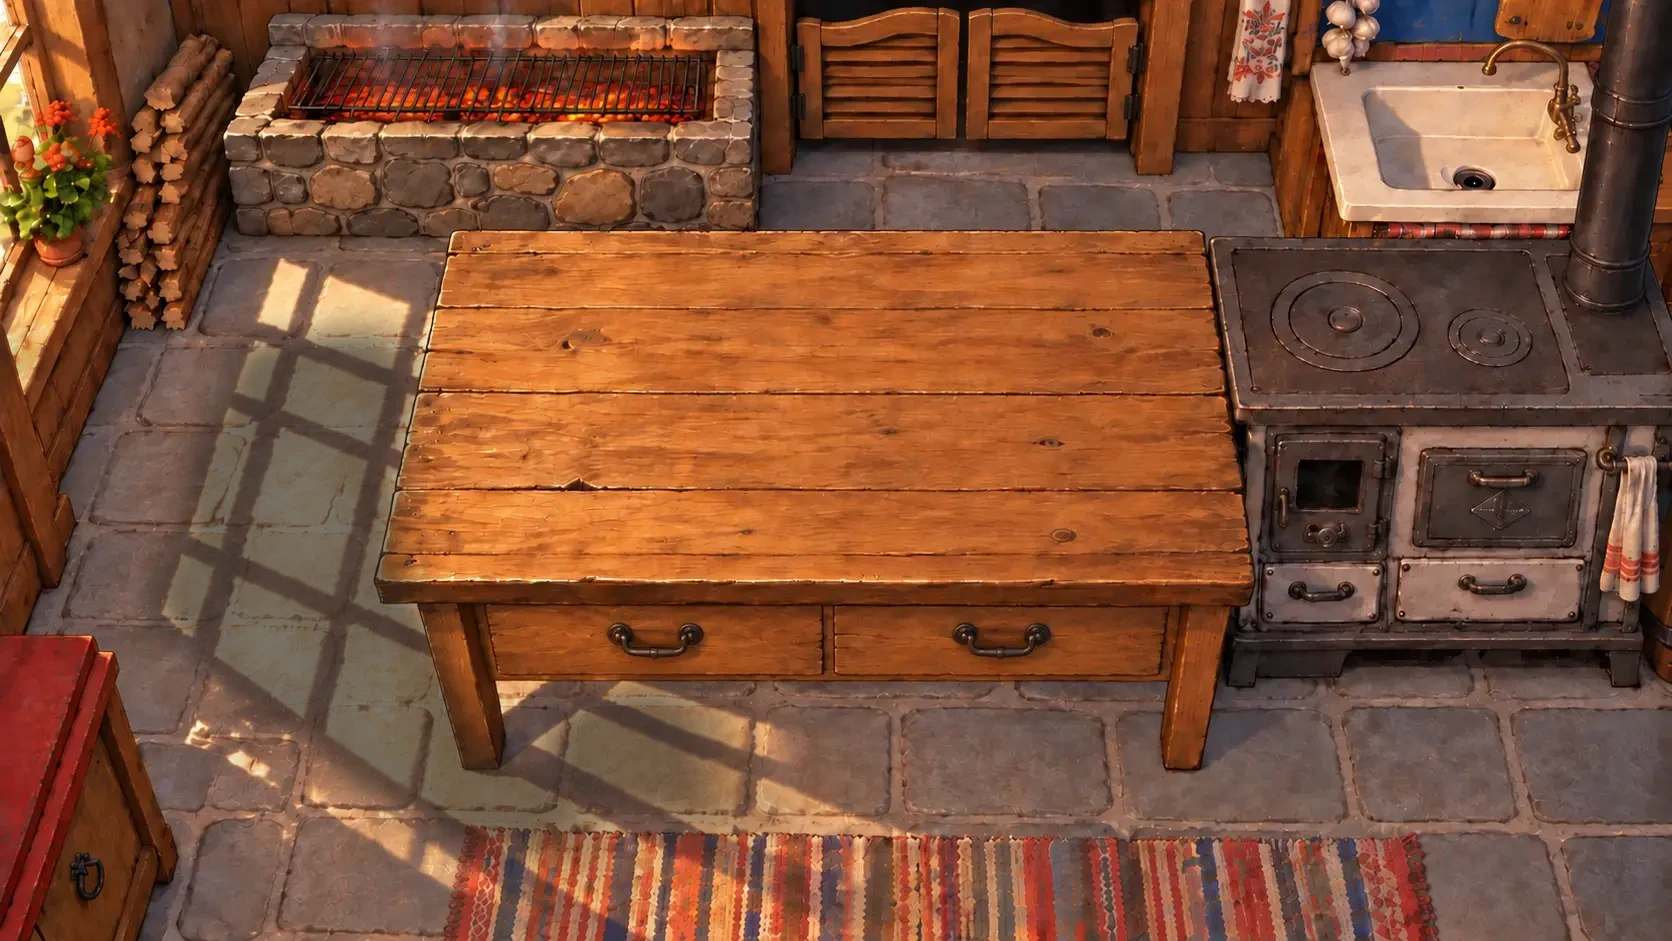
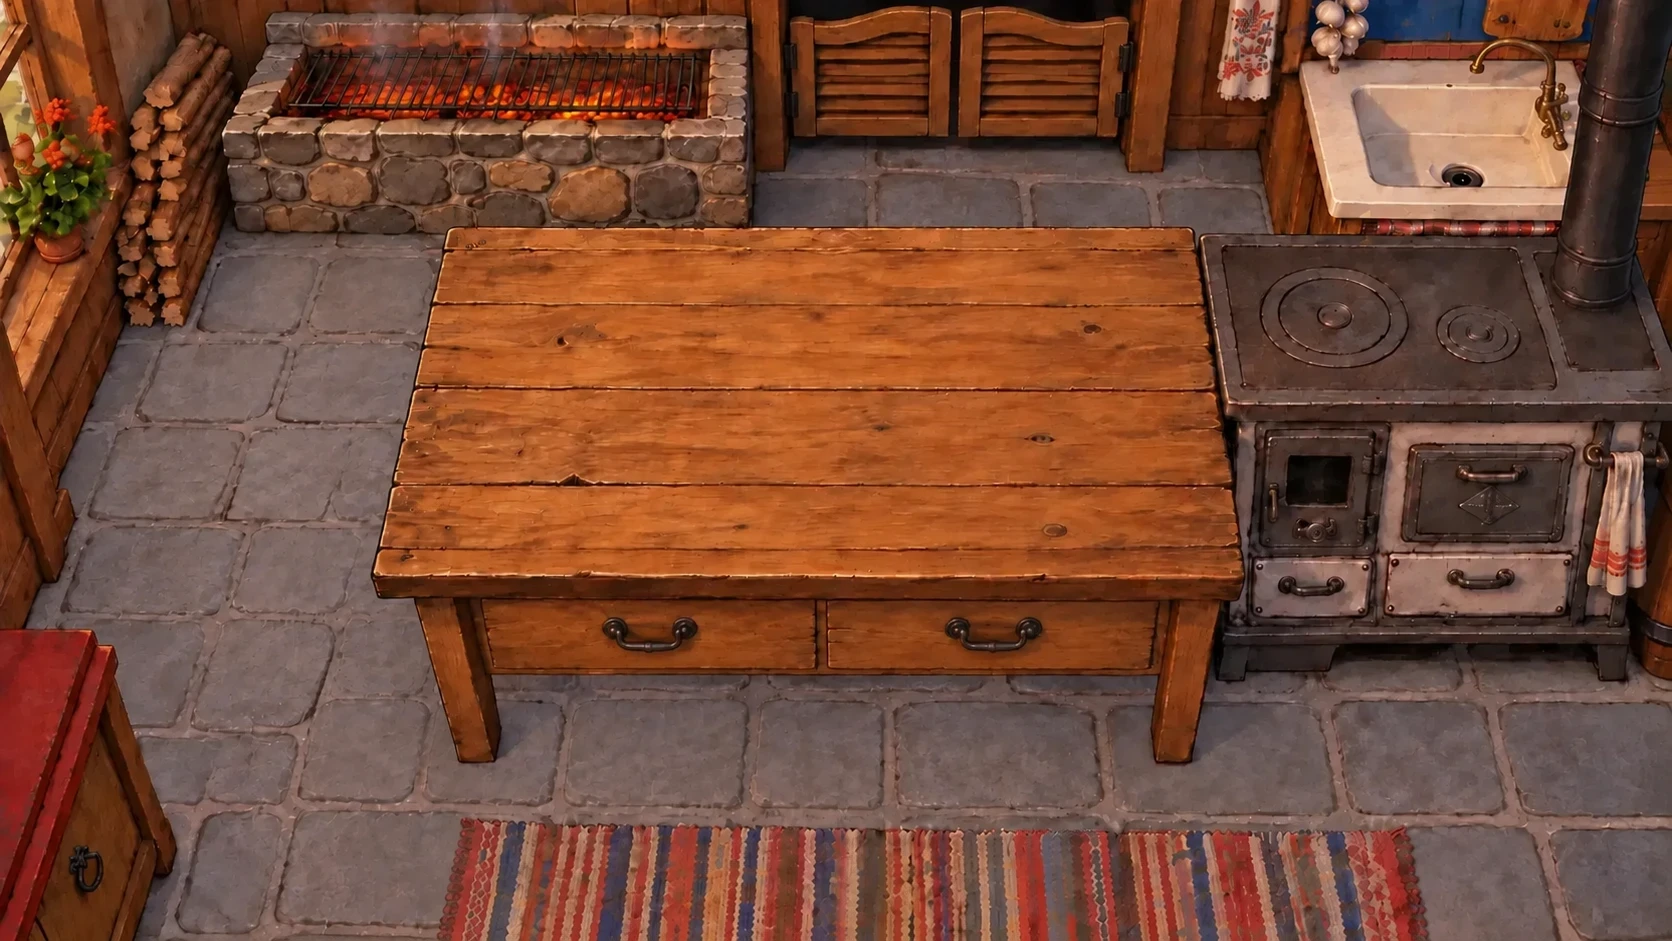
Sunce na podu: prava slika bez sunca (ChatGPT) kroz masku dok pada noć
Claude-Session: https://claude.ai/code/session_01GMM3Rnq6i1o8tZEuJzXhvg

diff --git a/js/day-light.js b/js/day-light.js
@@ -71,7 +71,7 @@ function fireSig(){return Math.round(grillLevel()*20)+'/'+Math.round(stoveLevel(
 var cv=null,cx=null,tintC=null,sunI=new Image();sunI.src='assets/effects/sun_patches.png?v=1';
 /* the picture of the kitchen WITHOUT the sun on the floor (assets/effects/kuhinja_bez_sunca.webp, the same picture, drawn without the light of the window) lies over the real one inside a mask of the window light
    (assets/effects/sun_zone_mask.png) and it melts in while the sun goes away (evening, night, early morning). If that picture is not there, the patches are only darkened. */
-var SUNLESS='assets/effects/kuhinja_bez_sunca.webp?v=1',ZONE='assets/effects/sun_zone_mask.png?v=1',sunless=null,sunlessOK=false;
+var SUNLESS='assets/effects/kuhinja_bez_sunca.webp?v=2',ZONE='assets/effects/sun_zone_mask.png?v=1',sunless=null,sunlessOK=false;
 (function(){var im=new Image();im.onload=function(){sunlessOK=true;lastSig='';};im.src=SUNLESS;})();
 function sunlessLayer(){
   var sc=document.getElementById('scene');if(!sc)return null;

diff --git a/index.html b/index.html
@@ -212,7 +212,7 @@
 <script src="js/flour.js?v=64"></script>
 <script src="js/cloth-hand.js?v=7"></script>
 <script src="js/grill-fire.js?v=7"></script>
-<script src="js/day-light.js?v=3"></script>
+<script src="js/day-light.js?v=4"></script>
 <script src="js/pitcher-pour.js?v=4"></script>
 <script src="js/kitchen-fixtures.js?v=71"></script>
 <script src="js/sink-dishes.js?v=2"></script>

diff --git a/NOTES.md b/NOTES.md
@@ -878,4 +878,4 @@ Kad serving.js nacrta sliku posude, sakriva staru masku prednjeg zida (ona je U-
 - Boje i brojevi za jutro (7h), podne (12h), veče (19h), noć (0/24h) su početno iz rezervnog fajla `assets/cookster-light-settings-backup-2026-09-15.json`; alat "☀ Vreme i svetlo" (dugme dole desno, gasi se sa "Alati") menja sve, čuva u `cookster.day-light.v1`, ima izvoz/uvoz JSON.
 - Sat se vidi gore pored dugmeta "Alati".
 - Nije urađeno: krupan plan sudopere i roštilja nisu zatamnjeni noću; kafana nema svoje dnevno svetlo (ima lampe); senke predmeta ne menjaju dužinu po suncu; dugme "Završi dan".
-- Sunce na podu (novo): umesto samo zatamnjivanja, preko prave pozadine leži slika kuhinje BEZ sunca (`assets/effects/kuhinja_bez_sunca.webp`) unutar maske svetla sa prozora (`assets/effects/sun_zone_mask.png`), i polako se pojačava kako sunce odlazi (veče 19–21h, jutro 5–7h). Za sada je to privremena slika koju sam napravio (ista slika sa spljoštenim i zatamnjenim mrljama). Kad stigne Miloševa slika iz ChatGPT-a (ista kuhinja, bez sunčevih zraka), samo se zameni taj fajl (1672×941, ista pozicija svega); maska i kod ostaju. Ako slike nema, vraća se na zatamnjivanje mrlja (`sun_patches.png`).
+- Sunce na podu: preko prave pozadine leži Miloševa slika kuhinje BEZ sunca iz ChatGPT-a (`assets/effects/kuhinja_bez_sunca.webp`, 1672×941) unutar maske svetla sa prozora (`assets/effects/sun_zone_mask.png`), i polako se pojačava kako sunce odlazi (veče 19–21h, jutro 5–7h). Raspored kamenih ploča na toj slici nije isti kao na originalu (ChatGPT je ponovo nacrtao pod), pa se u prelazu (oko 2 min igre) ploče malo prelivaju; na kraju noći ostaje samo nova slika. Sto, šporet i drugi veliki predmeti se poklapaju. Sto crta `#tableOccluder` iz originalne slike, pa sto ostaje isti. Ako slike nema, mrlje se samo zatamne (`sun_patches.png`).
